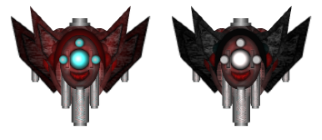
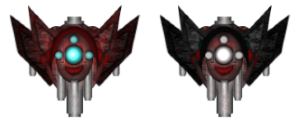
a few fixes for the phantom class

diff --git a/SoloGame.cs b/SoloGame.cs
@@ -24,7 +24,6 @@ namespace Space_Shooter
             _level = level;
             if (_level == 7) _mode = new SurvivalMode();
             else _mode = new ByLevels(_level);
-
             Difficulty.SetEnemyLimitByLevel(level);
             State = GameStates.PlayerAlive;
             Console.WriteLine("level is {0}", _level);
@@ -48,7 +47,7 @@ namespace Space_Shooter
                 _enemies.Clear();
                 State = GameStates.PlayerDestroyed;
             } 
-            
+
         }
         private void UpdateDifficulty(double score)
         {
@@ -56,34 +55,6 @@ namespace Space_Shooter
             if (score >= 200 && Difficulty.Index == 1) Difficulty.IncreaseStage();
             if (score >= 400 && Difficulty.Index == 2) Difficulty.IncreaseStage();
         }
-        // private void UpdateLevel(int level)
-        // {
-        //     if (level >= 1 && level <= 6 && _player.Score >= 100 && _enemies.Count == 0) AddBoss(level);
-        //     //if the boss is destroyed and there is no enemy left
-
-        //     //change state to either over or in game, if the player wins game data will update the record
-        //     if (_enemies.Count == 0 && _player.Score >= 100) State = SoloGame.GameStates.LevelCompleted;
-        //     else if (level == 7) Difficulty.IncreaseStage(); 
-
-        //     if (level < 7)
-        //     {
-        //         if (_player.Score >= 100 && _enemies.Count == 0) AddBoss(level);
-        //         if (_enemies.Count == 0) State = SoloGame.GameStates.LevelCompleted;
-        //     } 
-        // }
-        // private void AddBoss(int level)
-        // {
-        //     switch(level)
-        //     {
-        //         case 7:
-        //             //_enemies.Add(boss);
-        //             break;
-        //         case 8:
-        //             break;
-        //         case 9:
-        //             break;
-        //     }
-        // }
         public void Draw()
         {
             Menu.DrawGameInfo(_player.Health, _player.Score);
@@ -100,27 +71,6 @@ namespace Space_Shooter
             if (SplashKit.KeyDown(KeyCode.SpaceKey) && _player.CoolDown == 0) _player.Shoot();
         }
         private void DrawEnemies() => _enemies.ForEach(enemy => enemy.Draw());
-        // private void AddEnemies()
-        // {
-        //     int enemyTypeAmount;
-        //     foreach (var enemyType in _enemyAmountByClass.Keys)
-        //     {
-        //         enemyTypeAmount = _enemyAmountByClass[enemyType];
-        //         //generate enemies, their amount and spawning location is dependent on the currentamount    and closest enemy created
-        //         if (SplashKit.Rnd(0, 70) == 0 && enemyTypeAmount < Difficulty.Limit[enemyType])
-        //         {
-        //             if (enemyTypeAmount == 0) _enemies.Add((Enemy)Activator.CreateInstance(enemyType));
-        //             else
-        //             {
-        //                 var lastEnemy = _enemies[_enemies.Count - 1];
-        //                 Object[] parameters = {lastEnemy.X, lastEnemy.Y};
-        //                 _enemies.Add((Enemy)Activator.CreateInstance(enemyType, parameters));
-        //             }
-        //             UpdateEnemyAmount(enemyType, 1);
-        //         }
-        //     }
-        // }
-        // private void UpdateEnemyAmount(Type type, int increment) => _enemyAmountByClass[type] += increment;
         private void UpdateEnemies()
         {
             _mode.AddEnemies((int)_player.Score, _enemies);
@@ -131,7 +81,6 @@ namespace Space_Shooter
                 if (enemy.Y > Global.Height || enemy.IsDestroyed)
                 {
                     if (enemy.IsDestroyed) Background.CreateExplosion(enemy.X, enemy.Y, enemy.ExplosionType);
-                    // UpdateEnemyAmount(enemy.GetType(), -1);
                     _enemies.Remove(enemy);
                     _mode.UpdateEnemyAmount(enemy.GetType(), -1);                   
                 }

diff --git a/Boss.cs b/Boss.cs
@@ -16,14 +16,18 @@ namespace Space_Shooter
         {
             X = Global.Width / 2;
             Y = -20;
-            XOffset = 75;
-            YOffset = 50;
-            Damage = 10;
-            Bitmap = SplashKit.LoadBitmap("Nightmare", "Bosses/Nightmare.png");
+            Damage = 12;
             _gun = new GunSystem(Bullet.Direction.Down, 1.5, Bullet.Type.RedLaser, false);
             _speed = 5;
             _health = 100;
             _movePattern = new ZigzagMovement(_speed, X, Y);
+        }
+        private void SetAnimation()
+        {
+            XOffset = 75;
+            YOffset = 50;
+            Damage = 10;
+            Bitmap = SplashKit.LoadBitmap("Nightmare", "Bosses/Nightmare.png");
         }
         public override void Update()
         {
@@ -56,8 +60,6 @@ namespace Space_Shooter
         }
     }
 
-    //TODO: make the second boss with the ability to disappear, spawn kamikazes?
-
     public class Phantom : Enemy, IHaveGun
     {
         public List<Bullet> Bullets{get{ return _gun.Bullets;}}
@@ -74,18 +76,23 @@ namespace Space_Shooter
         {
             X = Global.Width / 2;
             Y = -20;
-            Bitmap = SplashKit.LoadBitmap("Phantom", "Bosses/Phantom.png");
-            Bitmap.SetCellDetails(322/2, 140, 2, 1, 2);
-            XOffset = 322 / 4;
-            YOffset = 140 / 2;
-            _flyScript = SplashKit.LoadAnimationScript("Flickering", "flickerScript.txt");
-            _animation = _flyScript.CreateAnimation("flickering");
-            _option = SplashKit.OptionWithAnimation(_animation);
+            Damage = 15;
+            SetAnimation();
             _gun = new GunSystem(Bullet.Direction.Down, 1.2, Bullet.Type.TripleLaser, false);
             _speed = 6;
             _health = 100;
             _isInvisible = false;
             _movePattern = new ZigzagMovement(_speed, X, Y);
+        }
+        private void SetAnimation()
+        {
+            Bitmap = SplashKit.LoadBitmap("Phantom", "Bosses/Phantom.png");
+            Bitmap.SetCellDetails(300/2, 130, 2, 1, 2);
+            XOffset = 300 / 4;
+            YOffset = 130 / 2;
+            _flyScript = SplashKit.LoadAnimationScript("Flickering", "flickerScript.txt");
+            _animation = _flyScript.CreateAnimation("flickering");
+            _option = SplashKit.OptionWithAnimation(_animation);
         }
         public override void Update()
         {
@@ -109,8 +116,7 @@ namespace Space_Shooter
         }
         public override void Draw()
         { 
-            //if (!_isInvisible)
-             SplashKit.DrawBitmap(Bitmap, AdjustedX, AdjustedY, _option); 
+            if (!_isInvisible) SplashKit.DrawBitmap(Bitmap, AdjustedX, AdjustedY, _option); 
             _gun.DrawBullets();
         }
         public override void CheckPlayerBullets(List<Bullet> bullets)

diff --git a/Main.cs b/Main.cs
@@ -15,9 +15,7 @@ class Program
     static Window gameWindow = new Window("Space Shooter", Global.Width, Global.Height);
     static void Main(string[] args)
     {
-        // GameBackground.ResetScore();
         RegisterEnemies();
-        // player = new Player(spaceshipChoice);
         while (!SplashKit.QuitRequested())
         {
             Update();

diff --git a/Menu.cs b/Menu.cs
@@ -77,5 +77,7 @@ namespace Space_Shooter
             }
             SplashKit.DrawText("Endless Flight", Color.Red, Global.MediumFont, 40, 150, 700);
         }
+
+        //TODO: write the logic for top right buttons
     }
 }

diff --git a/MovePattern.cs b/MovePattern.cs
@@ -101,4 +101,6 @@ namespace Space_Shooter
             return angle;
         }
     }
+
+    //TODO: make a more randomized zig zag, may be a bool field as a flag?
 }
